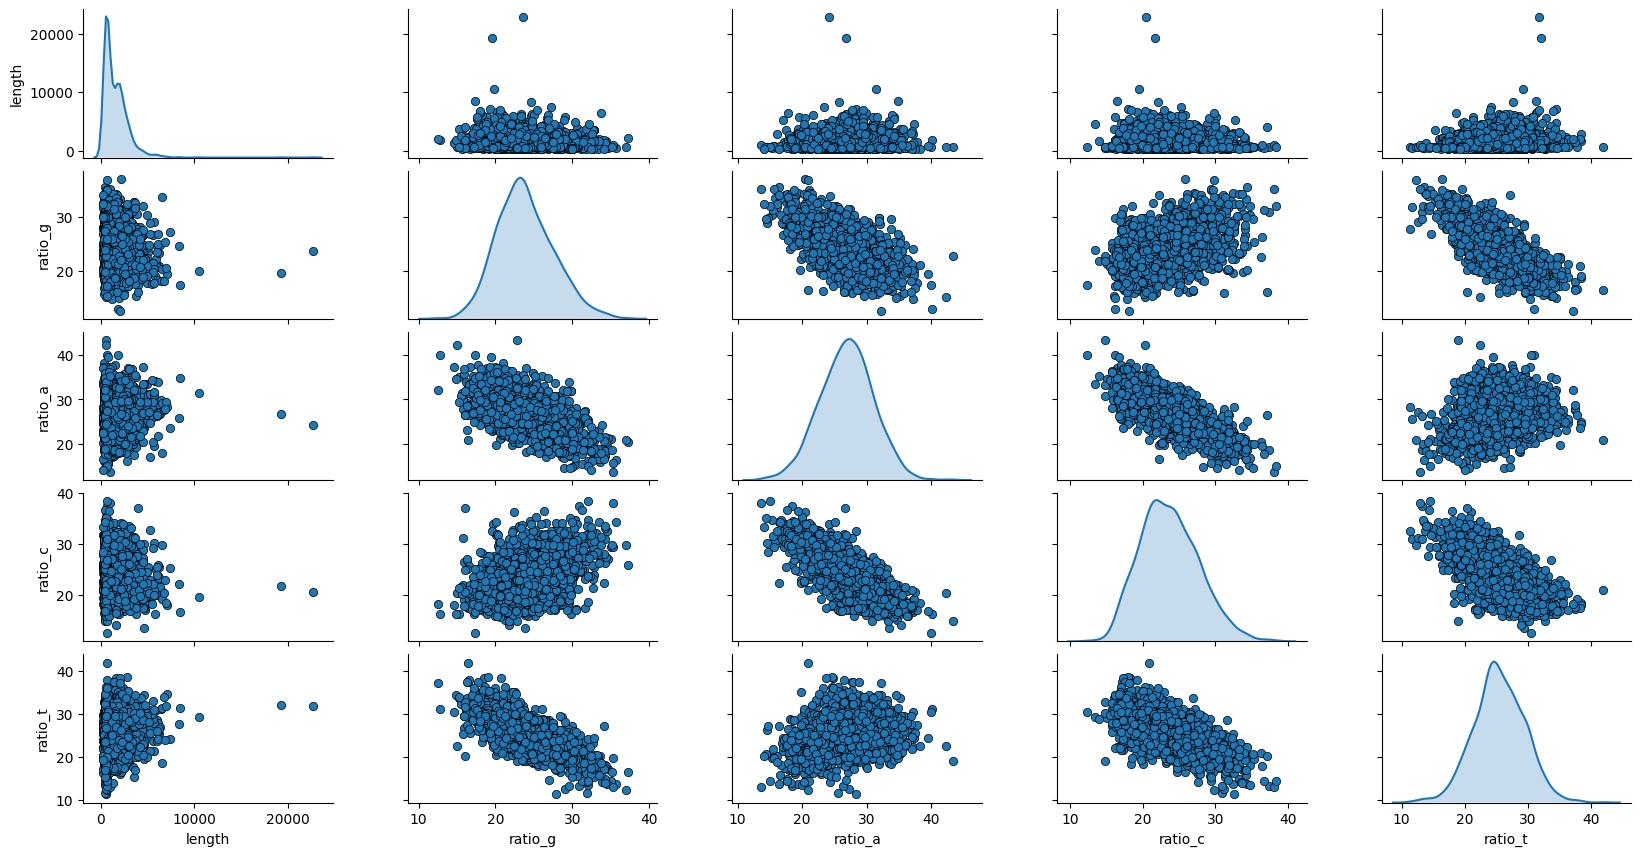
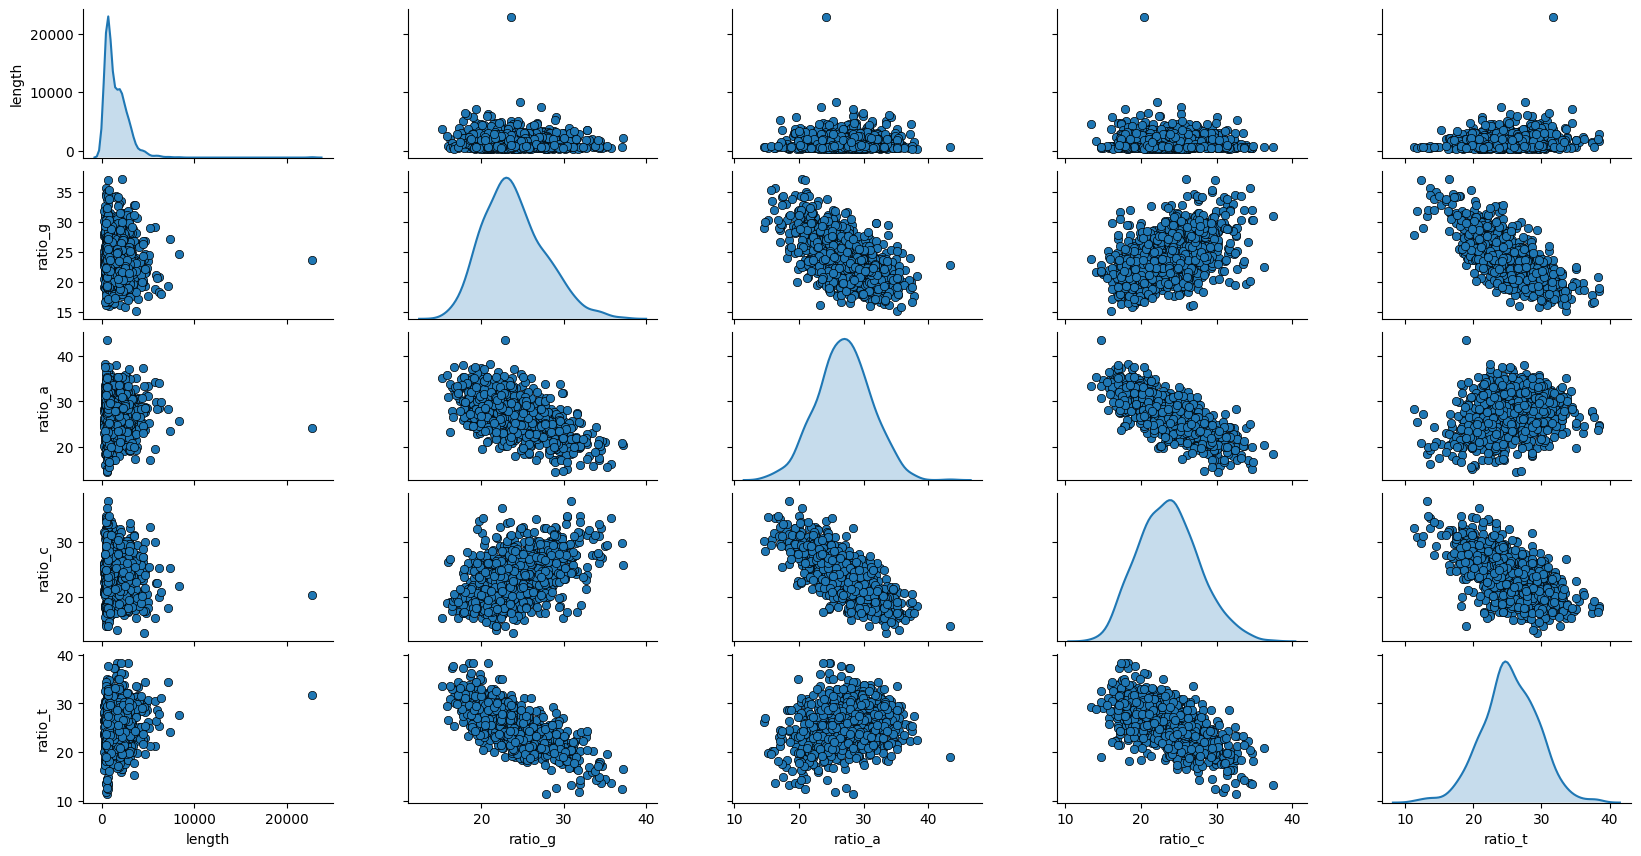
updated folder structure

diff --git a/fasta.py b/fasta.py
@@ -11,7 +11,7 @@ import seaborn as sns
 
 def load_data():
    # https://lncipedia.org/download
-   data_dict = {'sequence': [], 'length': [], 'ratio_g': [], 'ratio_t': [], 'ratio_c': [], 'ratio_a': []}
+   data_dict = {'length': [], 'ratio_g': [], 'ratio_t': [], 'ratio_c': [], 'ratio_a': []}
    data = SeqIO.parse("data/lncipedia_5_2.fasta", "fasta")
    for i, record in enumerate(data):
       #print("Id: %s" % record.id) 
@@ -19,7 +19,6 @@ def load_data():
       #print("Description: %s" % record.description) 
       #print("Annotations: %s" % record.annotations) 
       #print("Sequence Alphabet: %s" % record.seq.alphabet)record.seq
-      data_dict['sequence'].append(record.seq)
       length = len(record.seq)
       data_dict['length'].append(length)
 
@@ -43,14 +42,12 @@ def load_data():
       data_dict['ratio_c'].append(count_c/length*100)
       data_dict['ratio_a'].append(count_a/length*100)
 
-      if i == 2000:
+      if i == 1000:
          break
    df = pd.DataFrame.from_dict(data_dict)
-   # df = StandardScaler().fit_transform(X)
    return df
 
-def dbscan(df, features):
-   df = df[features]
+def fit_dbscan(df):
    db = DBSCAN(eps=0.7, min_samples=5).fit(df)
    core_samples_mask = np.zeros_like(db.labels_, dtype=bool)
    core_samples_mask[db.core_sample_indices_] = True
@@ -60,6 +57,13 @@ def dbscan(df, features):
    n_clusters_ = len(set(labels)) - (1 if -1 in labels else 0)
    n_noise_ = list(labels).count(-1)
 
+   return (n_clusters_, n_noise_, labels, core_samples_mask)
+
+def run_dbscan(df, features):
+   output_path = './output/dbscan' 
+   feature1 = features[0]
+   feature2 = features[1]
+   n_clusters_, n_noise_, labels, core_samples_mask = fit_dbscan(df)
    print('Estimated number of clusters: %d' % n_clusters_)
    print('Estimated number of noise points: %d' % n_noise_)
 
@@ -83,22 +87,39 @@ def dbscan(df, features):
                markeredgecolor='k', markersize=6)
 
    plt.title('Estimated number of clusters: %d' % n_clusters_)
-   plt.savefig('dbscan.png')
+   plt.xlabel(feature1)
+   plt.ylabel(feature2)
+   plt.savefig('%s/%s-%s.png' % (output_path, feature1, feature2))
+   plt.clf()
+   plt.close()
 
-def kmeans(df_all, features, n_clusters):
-   def calc_centroids(df, n_clusters):
-      kmeans = KMeans(init='k-means++', n_clusters=n_clusters, n_init=3)
-      kmeans.fit(df)
-      LABEL_COLOR_MAP = {0 : 'r',
-                              1 : 'k',
-                              2: 'b',
-                              3: 'g'}
-      label_color = [LABEL_COLOR_MAP[l] for l in kmeans.labels_]
-      return (label_color, kmeans.cluster_centers_)
-
+def run_all_clustering(df_all, features):
    for i, feature1 in enumerate(features):
       df = df_all[[feature1]]
-      label_color, centroids = calc_centroids(df, n_clusters)
+      run_kmeans(df, [feature1], 4)
+
+      for feature2 in features[i+1:]:
+         df = df_all[[feature1, feature2]]
+         df = df.apply(lambda x: (x-x.mean()) / x.std(), axis=0)
+         run_kmeans(df, [feature1, feature2], 4)
+         run_dbscan(df, [feature1, feature2])
+
+def fit_kmeans(df, n_clusters):
+   kmeans = KMeans(init='k-means++', n_clusters=n_clusters, n_init=3)
+   kmeans.fit(df)
+   LABEL_COLOR_MAP = {0 : 'r',
+                         1 : 'k',
+                         2: 'b',
+                         3: 'g'}
+   label_color = [LABEL_COLOR_MAP[l] for l in kmeans.labels_]
+   return (label_color, kmeans.cluster_centers_)
+
+def run_kmeans(df, features, n_clusters):
+   output_path = './output/kmeans' 
+   
+   if len(features) == 1:
+      feature1 = features[0]
+      label_color, centroids = fit_kmeans(df, n_clusters)
       plt.scatter(centroids[:, 0], np.zeros(shape=(n_clusters,1)), marker='x', color='g', zorder=10)
       hist, edges = np.histogram(df.iloc[:, 0], bins=100)
       def add_counts(f):
@@ -118,20 +139,22 @@ def kmeans(df_all, features, n_clusters):
       plt.scatter(df[feature1], df['count'], c=label_color)
       df = df.sort_values(by=feature1, axis=0)
       plt.plot(df[feature1], df['count'])
-      plt.savefig('%s.png' % (feature1))
+      plt.xlabel(feature1)
+      plt.ylabel('Haeufigkeit')
+      plt.savefig('%s/%s.png' % (output_path, feature1))
       plt.clf()
       plt.close()
-
-      for feature2 in features[i+1:]:
-         df = df_all[[feature1, feature2]]
-         label_color, centroids = calc_centroids(df, n_clusters)
-         plt.scatter(centroids[:, 0], centroids[:, 1], marker='x', color='g', zorder=10)
-         plt.scatter(df[feature1], df[feature2], c=label_color)
-         plt.xlabel(feature1)
-         plt.ylabel(feature2)
-         plt.savefig('%s-%s.png' % (feature1, feature2))
-         plt.clf()
-         plt.close()
+   else:
+      feature1 = features[0]
+      feature2 = features[1]
+      label_color, centroids = fit_kmeans(df, n_clusters)
+      plt.scatter(centroids[:, 0], centroids[:, 1], marker='x', color='g', zorder=10)
+      plt.scatter(df[feature1], df[feature2], c=label_color)
+      plt.xlabel(feature1)
+      plt.ylabel(feature2)
+      plt.savefig('%s/%s-%s.png' % (output_path, feature1, feature2))
+      plt.clf()
+      plt.close()
 
 
 # https://matplotlib.org/3.1.0/gallery/lines_bars_and_markers/scatter_hist.html
@@ -147,6 +170,5 @@ def pair(df, features):
 
 df = load_data()
 features = ['length', 'ratio_g', 'ratio_a', 'ratio_c', 'ratio_t']
-kmeans(df, features, 4)
-dbscan(df, features)
+run_all_clustering(df, features)
 pair(df, features)
